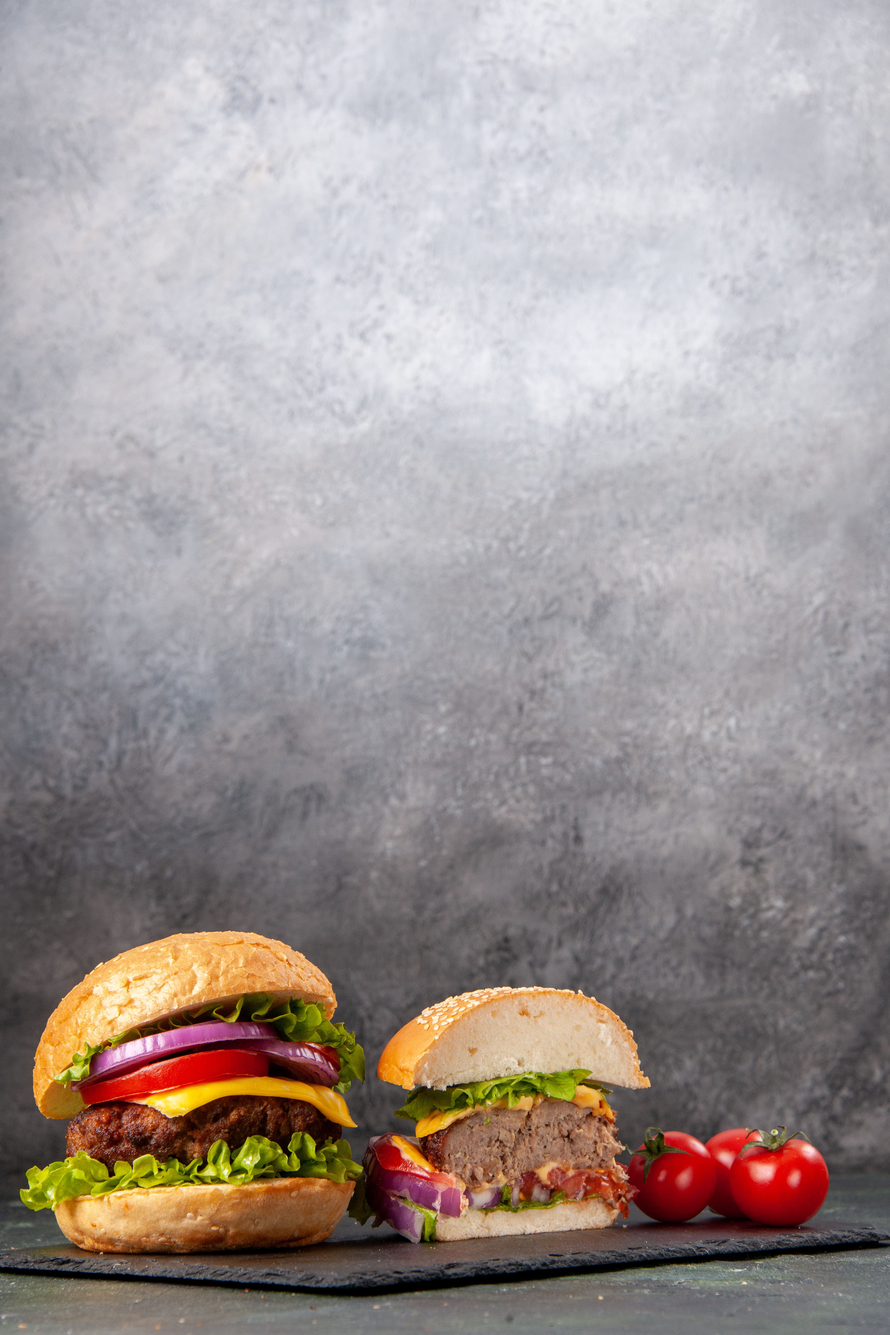
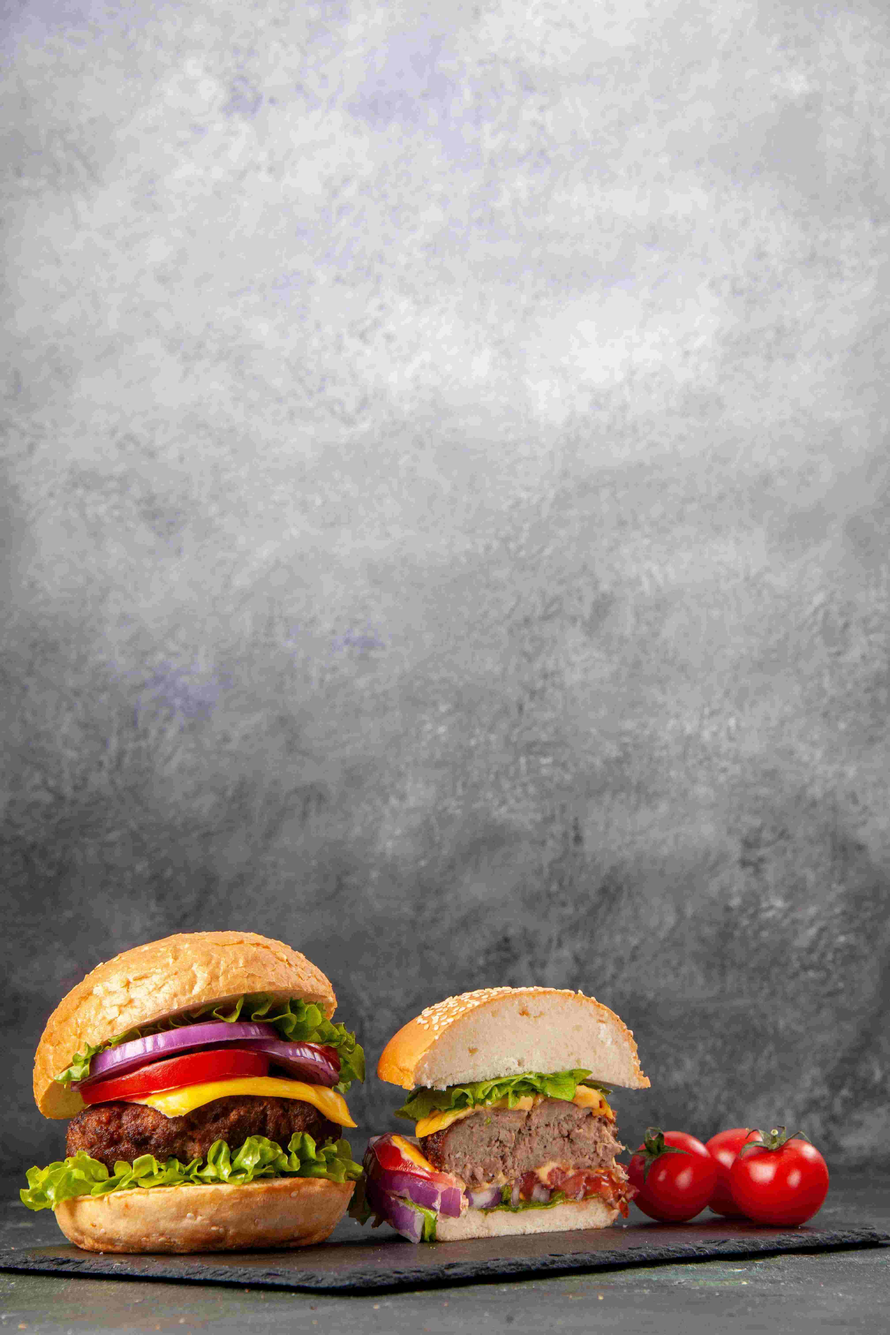
muchos cambios2

Changed region(s): [[0.0312, 0.7188, 0.1875, 0.9062], [0.4688, 0.8438, 0.5, 0.9062], [0.4688, 0.75, 0.5, 0.7812]]

diff --git a/src/components/page1.jsx b/src/components/page1.jsx
@@ -14,7 +14,7 @@ const Page1 = () => {
   return (
     <>
       <NavBar/>  
-      <main className="fondomain border-bottom border-2 border-dark  ">
+      <main className="fondomain border-bottom border-2 border-dark fondopc ">
         <section className="d-flex flex-column align-items-center justify-content-center vh-100 ">
           <div className="col-12 col-md-8 col-lg-6 d-flex justify-content-center ">
             <img src="./img/33.jpg" alt="logo" className=" rounded-circle logo wm-50" />
@@ -24,7 +24,7 @@ const Page1 = () => {
             Top One <br /> <span className=' display-4  text-dark'> Burger's</span>
           </h1>
           <div className="col-7 p-3< ">
-            <p className="text-dark text-center subtext h5  ">
+            <p className="text-light text-center subtext h5  ">
               Las mejores hamburguesas de la ciudad.
             </p>
           </div>

diff --git a/src/index.css b/src/index.css
@@ -13,6 +13,7 @@ body {
   
   transition: transform 0.2s ease;
 }
+
 .letralogo{
   font-family: 'Bangers', cursive;
 }
@@ -20,9 +21,10 @@ body {
   justify-content: center;
 }
 .fondomain{
-  background-image: url("../img-redux/fondo2-min.jpg");
-  background-size: cover;
+  background-image: url("../img-redux/fondopc.jpg");
+  background-size:cover;
 }
+
 .fondo{
   font-family: 'Anton', sans-serif;
   background-image: url("../img-redux/fondo1-min.jpg");

diff --git a/src/App.css b/src/App.css
@@ -106,4 +106,15 @@
   .s{
     display: none;
   }
+  .fondopc{
+    background-image: url("../img-redux/fondo2-min.jpg");
+    background-size: cover;
+  }
+}
+@media screen and (max-width: 540px) {
+
+  .fondopc{
+    background-image: url("../img-redux/fondo2-min.jpg");
+    background-size: cover;
+  }
 }
